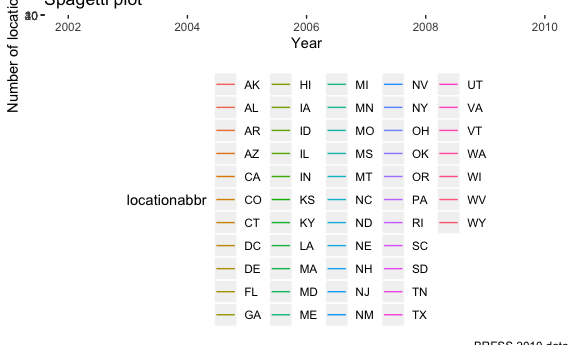
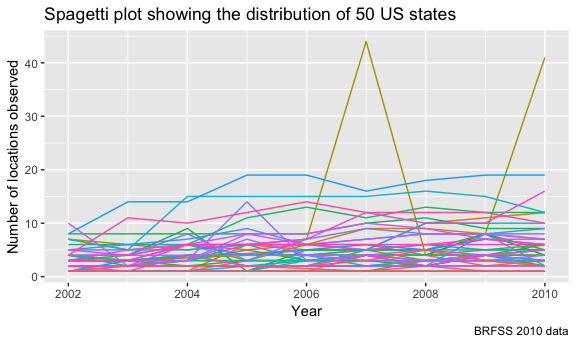
Final_1

diff --git a/p8105_hw3_ay2416.md b/p8105_hw3_ay2416.md
@@ -9,14 +9,14 @@ Loading the required libraries
 library(tidyverse)
 ```
 
-    ## ── Attaching packages ─────────────────────────────────────────────────────────────────────── tidyverse 1.2.1 ──
+    ## ── Attaching packages ───────────────────────────────────────────────────────────────────────────────────────── tidyverse 1.2.1 ──
 
     ## ✔ ggplot2 3.0.0     ✔ purrr   0.2.5
     ## ✔ tibble  1.4.2     ✔ dplyr   0.7.6
     ## ✔ tidyr   0.8.1     ✔ stringr 1.3.1
     ## ✔ readr   1.1.1     ✔ forcats 0.3.0
 
-    ## ── Conflicts ────────────────────────────────────────────────────────────────────────── tidyverse_conflicts() ──
+    ## ── Conflicts ──────────────────────────────────────────────────────────────────────────────────────────── tidyverse_conflicts() ──
     ## ✖ dplyr::filter() masks stats::filter()
     ## ✖ dplyr::lag()    masks stats::lag()
 
@@ -80,9 +80,9 @@ brfss_df %>%
   summarise(number = n()) %>% 
   ggplot(aes(x = year, y = number, color = locationabbr)) +
   geom_line() +
-  theme(legend.position = "bottom") +
+  theme(legend.position = "none") +
   labs(
-    title = "Spagetti plot",
+    title = "Spagetti plot showing the distribution of 50 US states",
     x = "Year",
     y = "Number of locations observed",
     caption = "BRFSS 2010 data"
@@ -336,14 +336,25 @@ I'm making a two-panel plot showing (i) tmax vs tmin for the full dataset (note 
 ``` r
 my_hex = ggplot(noaa_df, aes(x = tmin, y = tmax)) +
   geom_hex(aes()) +
-  theme(legend.position = "left")
+  theme(legend.position = "left") + 
+  labs(
+    x = "Minimum temperature (C)",
+    y = "Maximum temperature (C)",
+    title = "Hexagonal heatmap showing the distribution of maximum and minimum temperatures",
+    caption = "NOAA 2017"
+  )
         
 my_boxes = noaa_df %>% 
   filter(snow > 0 & snow < 100) %>% 
   ggplot(aes(x = year, y = snow, fill = year)) +
   geom_boxplot(alpha = 0.3) +
   theme(legend.position = "none", 
-        axis.text.x = element_text(angle = 80, hjust = 1, size = 8))
+        axis.text.x = element_text(angle = 80, hjust = 1, size = 8)) + 
+  labs(
+    x = "Year",
+    y = "Snowfall (mm)",
+    title = "Boxplot showing average distribution of snowfall per year"
+  )
 
 my_hex / my_boxes
 ```
